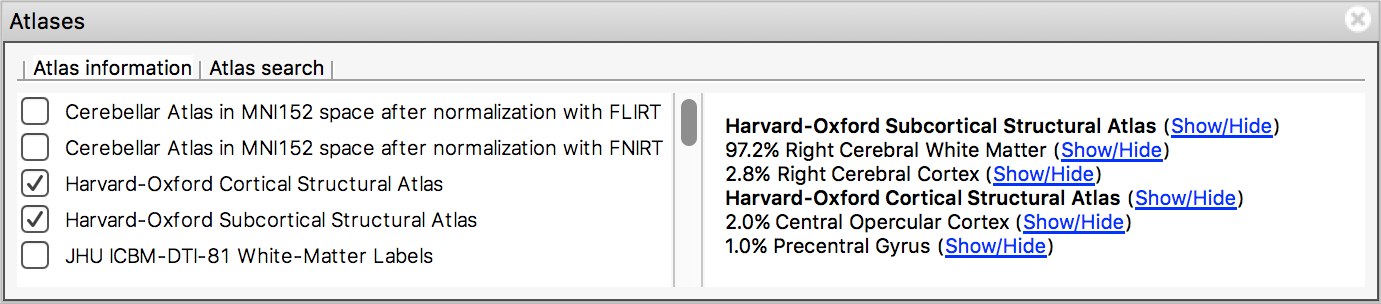
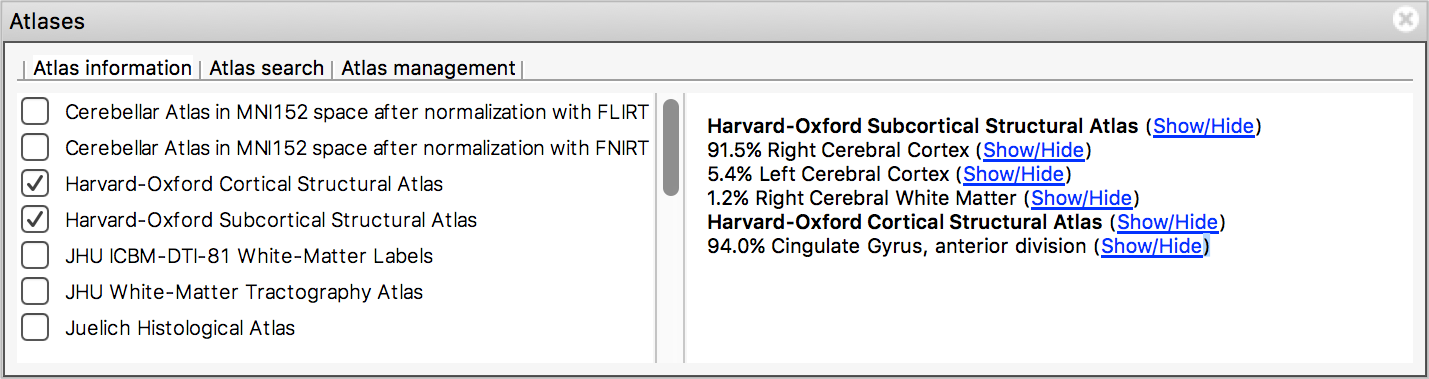
Various userdoc updates

Changed region(s): [[0.0, 0.0296, 1.0, 0.9178], [0.0, 0.977, 1.0, 1.0]]

diff --git a/userdoc/customising.rst b/userdoc/customising.rst
@@ -1,10 +1,14 @@
 .. _customising:
 
-Customising FSLeyes
-===================
+=====================
+ Customising FSLeyes
+=====================
 
 
 .. todo:: This page has not yet been written.
+
+
+Various elements of FSLeyes can be customised
 
 
 Colour maps
@@ -16,8 +20,130 @@ Luts
 
 Perspectives
 
-Atlases
 
-.. note:: The XML atlas specification format is due to be replaced in a future
-          FSL release.
-          
+.. _customising_custom_atlases:
+
+
+Custom atlases
+==============
+
+
+The :ref:`atlas management <atlases_atlas_management>` panel allows you to
+load custom atlases into FSLeyes. FSLeyes |version| supports atlases which are
+described by an ``xml`` file that adheres to the `FSL atlas XML file format
+<https://fsl.fmrib.ox.ac.uk/fsl/fslwiki/Atlases-Reference>`_ [*]_.
+
+
+FSLeyes can understand two types of atlases:
+
+
+ - A *label* (or "summary") atlas is a 3D NIFTI image which contains different
+   discrete integer values for each region defined in the atlas.
+
+   
+ - A *probabilistic* atlas is a 4D NIFTI image, where each volume contains a
+   probability map for one region in the atlas.  This probabilistic image may
+   also be accompanied by a corresponding label image.
+
+   
+Multiple versions of these images, at different resolutions, may exist
+(e.g. 1mm and 2mm versions of the same image may be present).
+
+
+If you have an atlas image which you would like to use in FSLeyes, you must
+write an ``xml`` file which describes the atlas. This file describes the
+atlas, contains paths to the atlas image(s), and contains a description of
+every region in the atlas.
+
+
+The best way to create one of these files is to look at the atlas files that
+exist in ``$FSLDIR/data/atlases``. Create a copy of one of these files -
+select one which describes an atlas that is similar to your own atlas
+(i.e. probabilistic or label) - and then modify the atlas name, file paths,
+and label descriptions to suit your atlas.  Your ``xml`` atlas file should end
+up looking something like the following:
+
+
+.. code-block:: xml
+
+   <atlas>
+
+     <!-- The header defines the atlas name, type, 
+          and paths to the atlas image files. -->
+     <header>
+
+       <!-- Human-readable atlas name -->
+       <name>Harvard-Oxford Cortical Structural Atlas</name>
+
+       <!-- Abbreviated atlas name -->
+       <shortname>HOCPA</shortname>
+
+       <!-- Atlas type - "Probabilistic" or "Label" -->
+       <type>Probabilistic</type>
+
+       <!-- Paths (defined relative to the location 
+            of this XML file) to the atlas images.
+            Multiple <images> elements may be present
+            - one for each resolution in which the
+            atlas is available. -->
+       <images>
+
+         <!-- If the atlas type is "Probabilistic", the
+              <imagefile> must be a path to a 4D image
+              which contains one volume per region.
+              Otherwise, if the atlas type is "Label",
+              the <imagefile> must be a path to 3D
+              label image. -->
+         <imagefile>/HarvardOxford/HarvardOxford-cort-prob-2mm</imagefile>
+
+         <!-- If the atlas type is "Probabilistic", the
+              <summaryimagefile> must be a path to a 3D
+              label image which 'summarises' the
+              probabilistic image. If the atlas type is
+              "Label", the <summaryimagefile> is identical
+              to the <imagefile>. -->
+         <summaryimagefile>/HarvardOxford/HarvardOxford-cort-maxprob-thr25-2mm</summaryimagefile>
+       </images>
+
+       <!-- A 1mm version of the same atlas images. -->
+       <images>
+         <imagefile>/HarvardOxford/HarvardOxford-cort-prob-1mm</imagefile>
+         <summaryimagefile>/HarvardOxford/HarvardOxford-cort-maxprob-thr25-1mm</summaryimagefile>
+       </images>
+     </header>
+
+     <!-- The <data> element contains descriptions
+          of all regions in the atlas. -->
+     <data>
+
+       <!-- Every region in the atlas has a <label> element which defines:
+
+            - The "index" of the label in the 4D probabilistic
+              image, if the atlas type is "Probabilistic". The
+              index also defines the region label value, for
+              "Label" atlases, and for 3D summary files - add
+              1 to the index to get the label value.
+
+            - The "x", "y", and "z" coordinates of a pre-
+              calculated "centre-of-gravity" for this region.
+              These are specified as voxel coordinates,
+              relative to the *first* image in the <images>
+              list, above.
+
+            - The name of the region. -->
+       
+       <label index="0" x="48" y="94" z="35">Frontal Pole</label>
+       <label index="1" x="25" y="70" z="32">Insular Cortex</label>
+       <label index="2" x="33" y="73" z="63">Superior Frontal Gyrus</label>
+
+       <!-- ... -->
+
+       <label index="45" x="74" y="53" z="40">Planum Temporale</label>
+       <label index="46" x="44" y="21" z="42">Supracalcarine Cortex</label>
+       <label index="47" x="37" y="15" z="34">Occipital Pole</label> 
+     </data>
+   </atlas>
+
+   
+.. [*] The ``xml`` atlas specification format is due to be replaced in a
+       future release of FSL.

diff --git a/userdoc/atlases.rst b/userdoc/atlases.rst
@@ -10,8 +10,7 @@ Atlases
 FSL comes bundled with a collection of `NIFTI templates and atlases
 <http://fsl.fmrib.ox.ac.uk/fsl/fslwiki/Atlases>`_. A variety of probabilistic
 and discrete atlases are included, comprising cortical, sub-cortical, and
-regional parcellations. It is also possible to add your own atlases to FSL -
-see the page on :ref:`customising FSLeyes <customising>` for details.
+regional parcellations. It is also possible to add your own atlases to FSL.
 
 
 .. sidebar:: Atlas registration space
@@ -28,9 +27,9 @@ atlases. An atlas panel can be added to a view via its settings menu,
 e.g. *Settings* |right_arrow| *Ortho view 1* |right_arrow| *Atlas panel*.
 
 
-The atlas panel is organised into two main sections - *Atlas information* and
-*Atlas search*. These sections are accessed by clicking on the two tabs at the
-top of the panel.
+The atlas panel is organised into three main sections - *Atlas information*,
+*Atlas search*, and *Atlas management*. These sections are accessed by
+clicking on the tabs at the top of the panel.
 
 
 .. _atlases_atlas_information:
@@ -133,3 +132,30 @@ filtered, so that only those regions with a name that contains the characters
 you entered are displayed. The atlas list on the left will also be updated so
 that any atlases which contain regions matching the search term are
 highlighted in **bold**.
+
+
+.. _atlases_atlas_management:
+
+Atlas management
+----------------
+
+
+.. image:: images/atlases_atlas_management.png
+   :width: 75%
+   :align: center
+
+
+The atlas management tab displays a list of all loaded atlases, and allows you
+to add and remove atlases from FSLeyes. The name of each atlas is shown in the
+list, but you can click and hold on an atlas to display the path to the atlas
+specification file.
+
+
+You can load a new atlas into FSLeyes by clicking the + button, and selecting
+the FSL atlas specification file which describes the atlas - see the page on
+:ref:`customising FSLeyes <customising>` for details.  You can remove an atlas
+from FSLeyes by selecting it in the list and clicking the - button [*]_.
+
+
+.. [*] If you remove an atlas that is located in ``$FSLDIR/data/atlases/`` it
+       will be re-loaded the next time you start FSLeyes.

diff --git a/userdoc/plot_views.rst b/userdoc/plot_views.rst
@@ -45,8 +45,10 @@ pages for more details.
 When you are viewing a 4D NIFTI image in an :ref:`orthographic or ligthbox
 view <ortho_lightbox_views>`, the time series view will update as you change
 the display location, to show the time series from the voxel (or voxels, if
-you have more than one 4D image loaded) at the current location.  You can use
-the :ref:`plot toolbar <plot_views_plot_toolbar>` or :ref:`plot list
+you have more than one 4D image loaded) at the current location. Clicking, or
+clicking and dragging on the time series plot will update the volume that is
+displayed for the currently selected image.  You can use the :ref:`plot
+toolbar <plot_views_plot_toolbar>` or :ref:`plot list
 <plot_views_holding_data_series_and_the_plot_list>` to "hold" the time series
 for one or more voxels, which will keep them on the plot after you change the
 display location.
@@ -179,13 +181,34 @@ selected image:
    :align: center
 
 
+
+.. sidebar:: 3D histogram overlay
+
+             
+             .. image:: images/plot_views_histogram_overlay.png
+                :width: 100%
+                :align: center
+
+             |
+
+             When you enable the *Show 3D histogram overlay* setting, a
+             :ref:`mask <overlays_mask>` is added to the display, allowing you
+             to see the voxels that have been included in the histogram.
+             Clicking and dragging on the histogram plot allows you to
+             interactively adjust the range of voxel intensities that are
+             displayed.
+             
+             
+
+
 - **Ignore zeros** This setting is selected by default. When selected, voxels
   which have an intensity equal to 0 are excluded from the histogram
   calculation.
 
 - **Show 3D histogram overlay** When this setting is selected, a :ref:`mask
   <overlays_mask>` overlay is created, which displays the voxels that have
-  been included in the histogram calculation.
+  been included in the histogram calculation. See the sidebar for more
+  details.
 
 - **Include values out of data range** When this setting is selected, the
   histogram will be updated so that the first and last bins contain voxels

diff --git a/userdoc/ortho_lightbox_views.rst b/userdoc/ortho_lightbox_views.rst
@@ -107,8 +107,8 @@ view. More settings are available in the :ref:`view settings panel
    <ortho_lightbox_views_view_settings_movie_mode>`.
 
    
-6. **Toggle cursor** This button allows you to turn the location cursor on and
-   off.
+6. **Toggle cursor/labels** This button allows you to turn the location cursor
+   and anatomical labels on and off.
 
    
 7. **Reset pan/zoom** This button will reset the pan and zoom settings on the
@@ -396,7 +396,9 @@ will causes FSLeyes to automatically loop through all of the 3D volumes in the
 image. This allows you to quickly scan through 4D images to, for example,
 visually check for motion artefacts in fMRI time series, or check registration
 alignment in a collection of T1 MRI images. The **Movie update rate** setting
-will adjust the speed at which the movie frames change.
+will adjust the speed at which the movie frames change. You can also change
+the image axis (X, Y, Z, or time/volume), to loop through via the **Movie
+axis** setting.
 
 
 .. _ortho_lightbox_views_view_settings_colour_bar:

diff --git a/userdoc/display_space.rst b/userdoc/display_space.rst
@@ -17,7 +17,7 @@ Overview
 
           
 FSLeyes assumes that all of the overlays you load are defined in the same
-space. If this assumption holds, FSLeyes will align all of your overlays on
+space. If this assumption holds, FSLeyes will align all of your overlays in
 the display, even if they have different resolution or orientation. 
 
 
